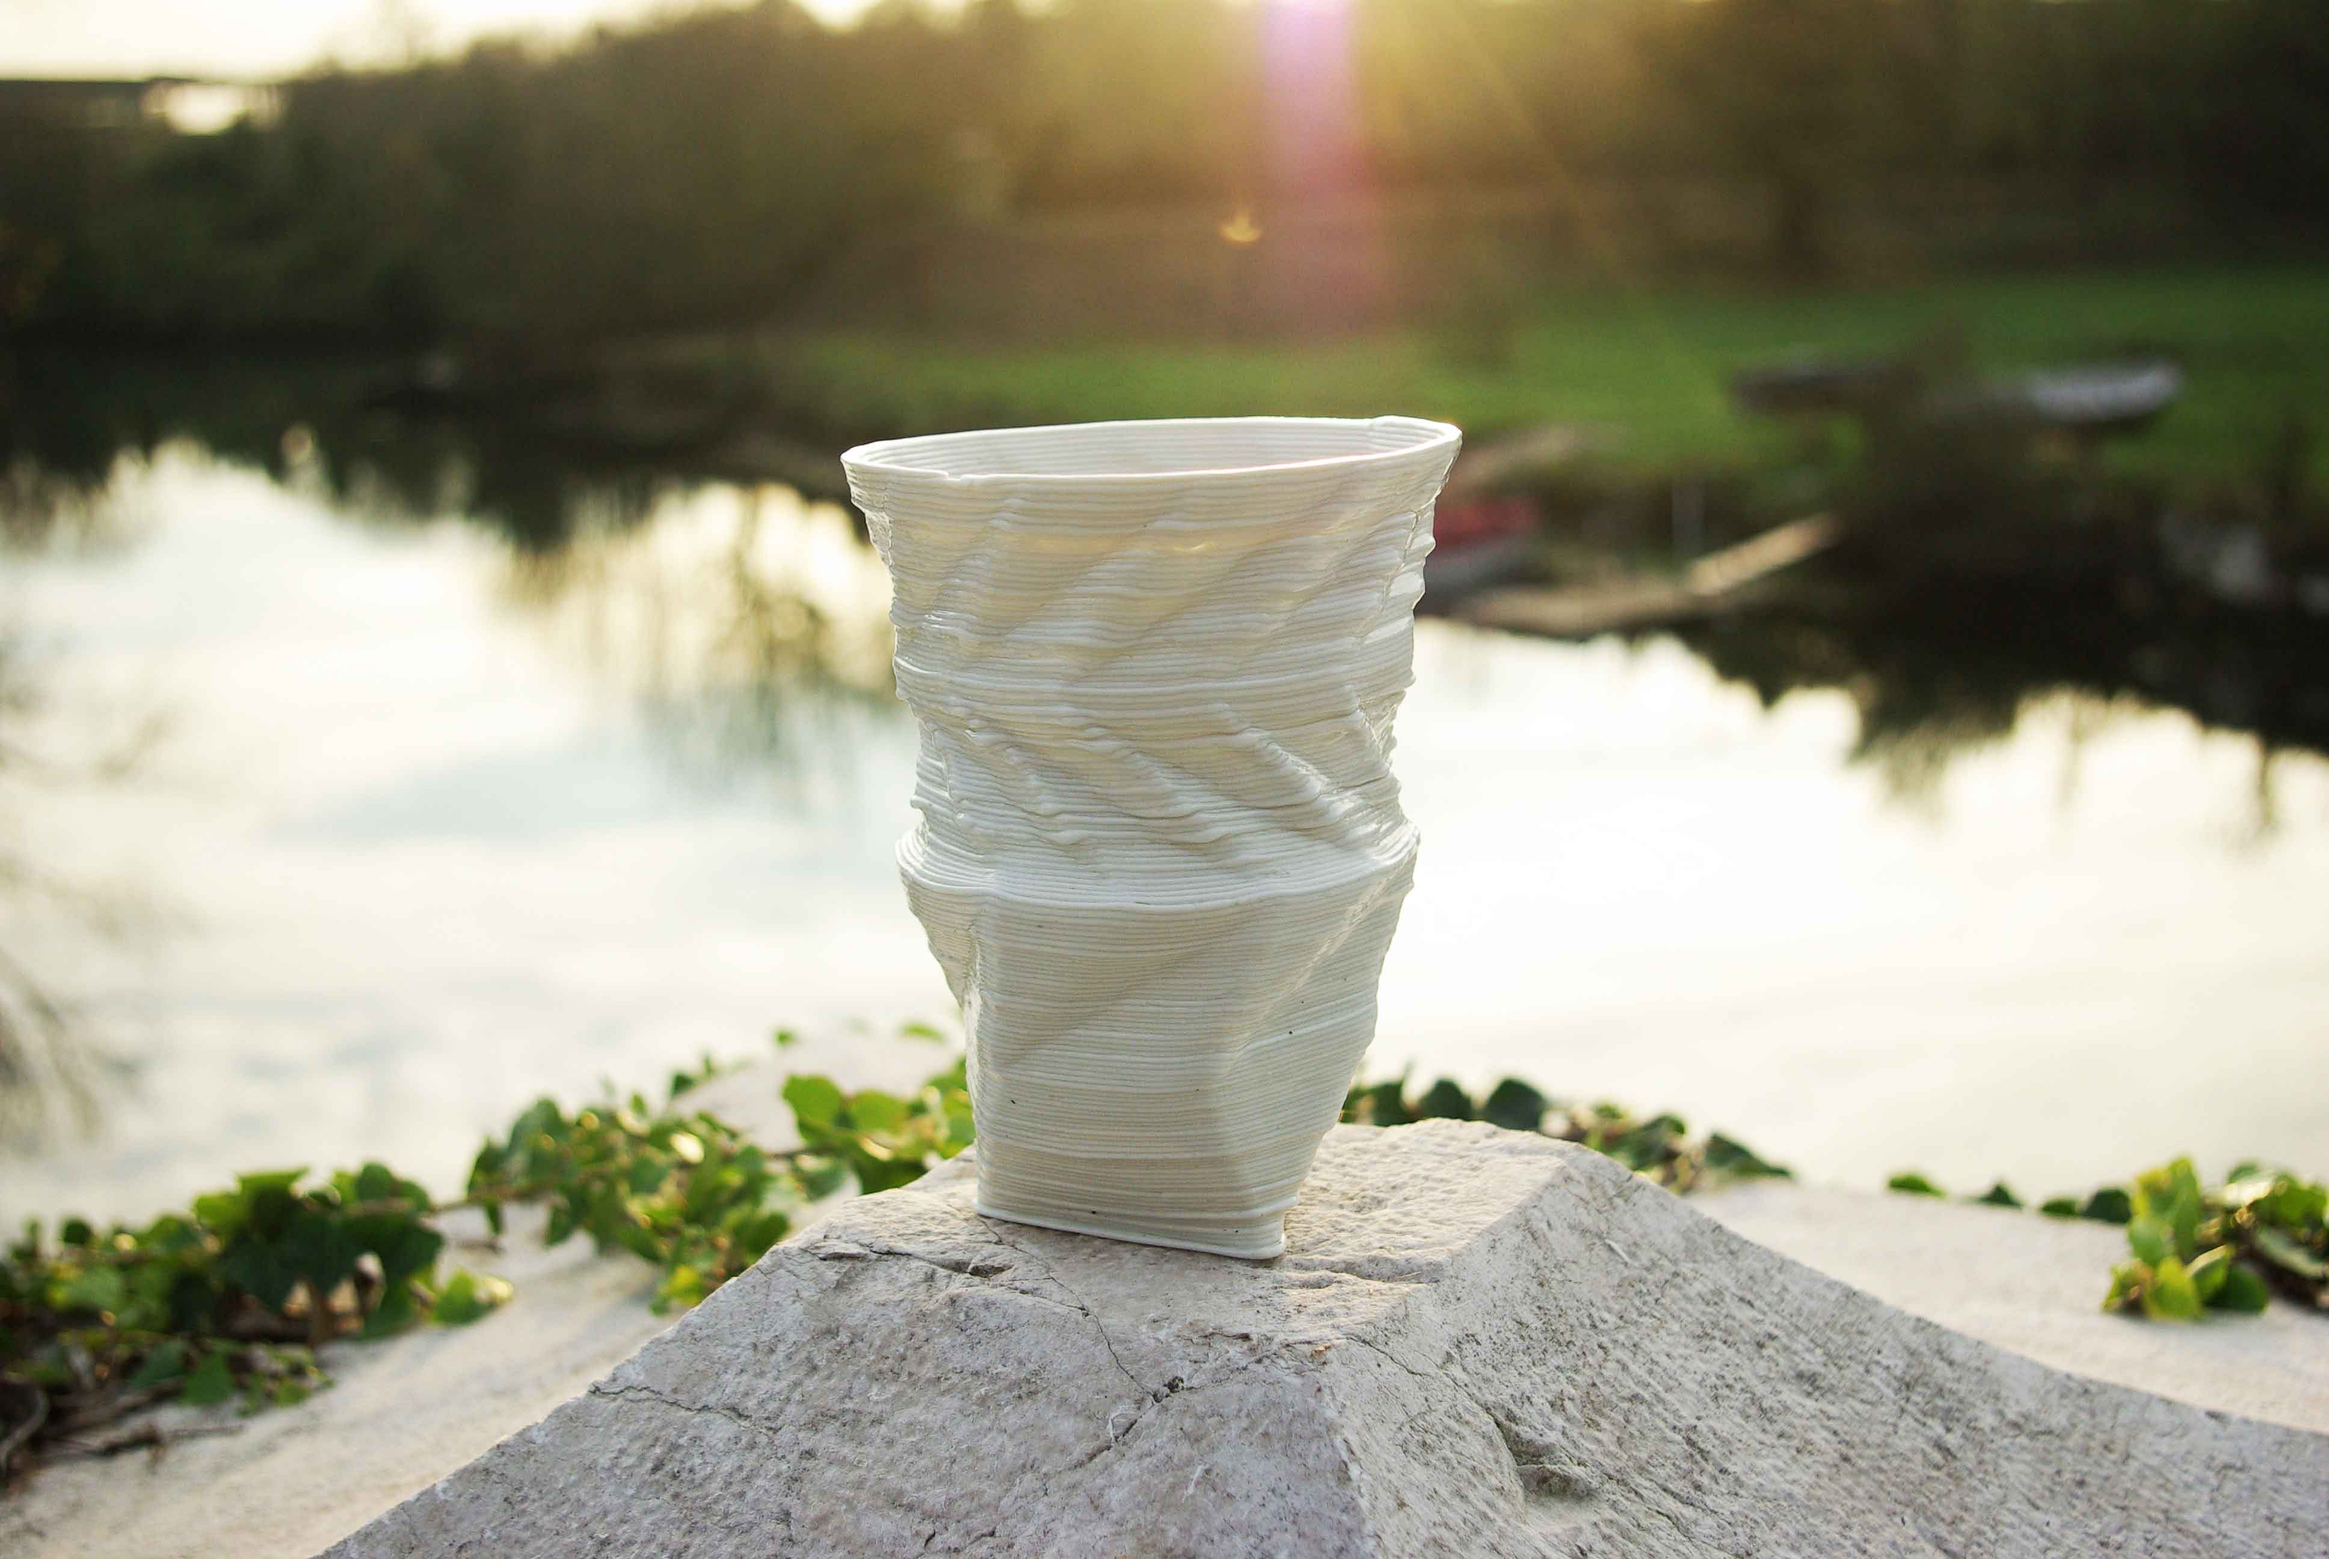
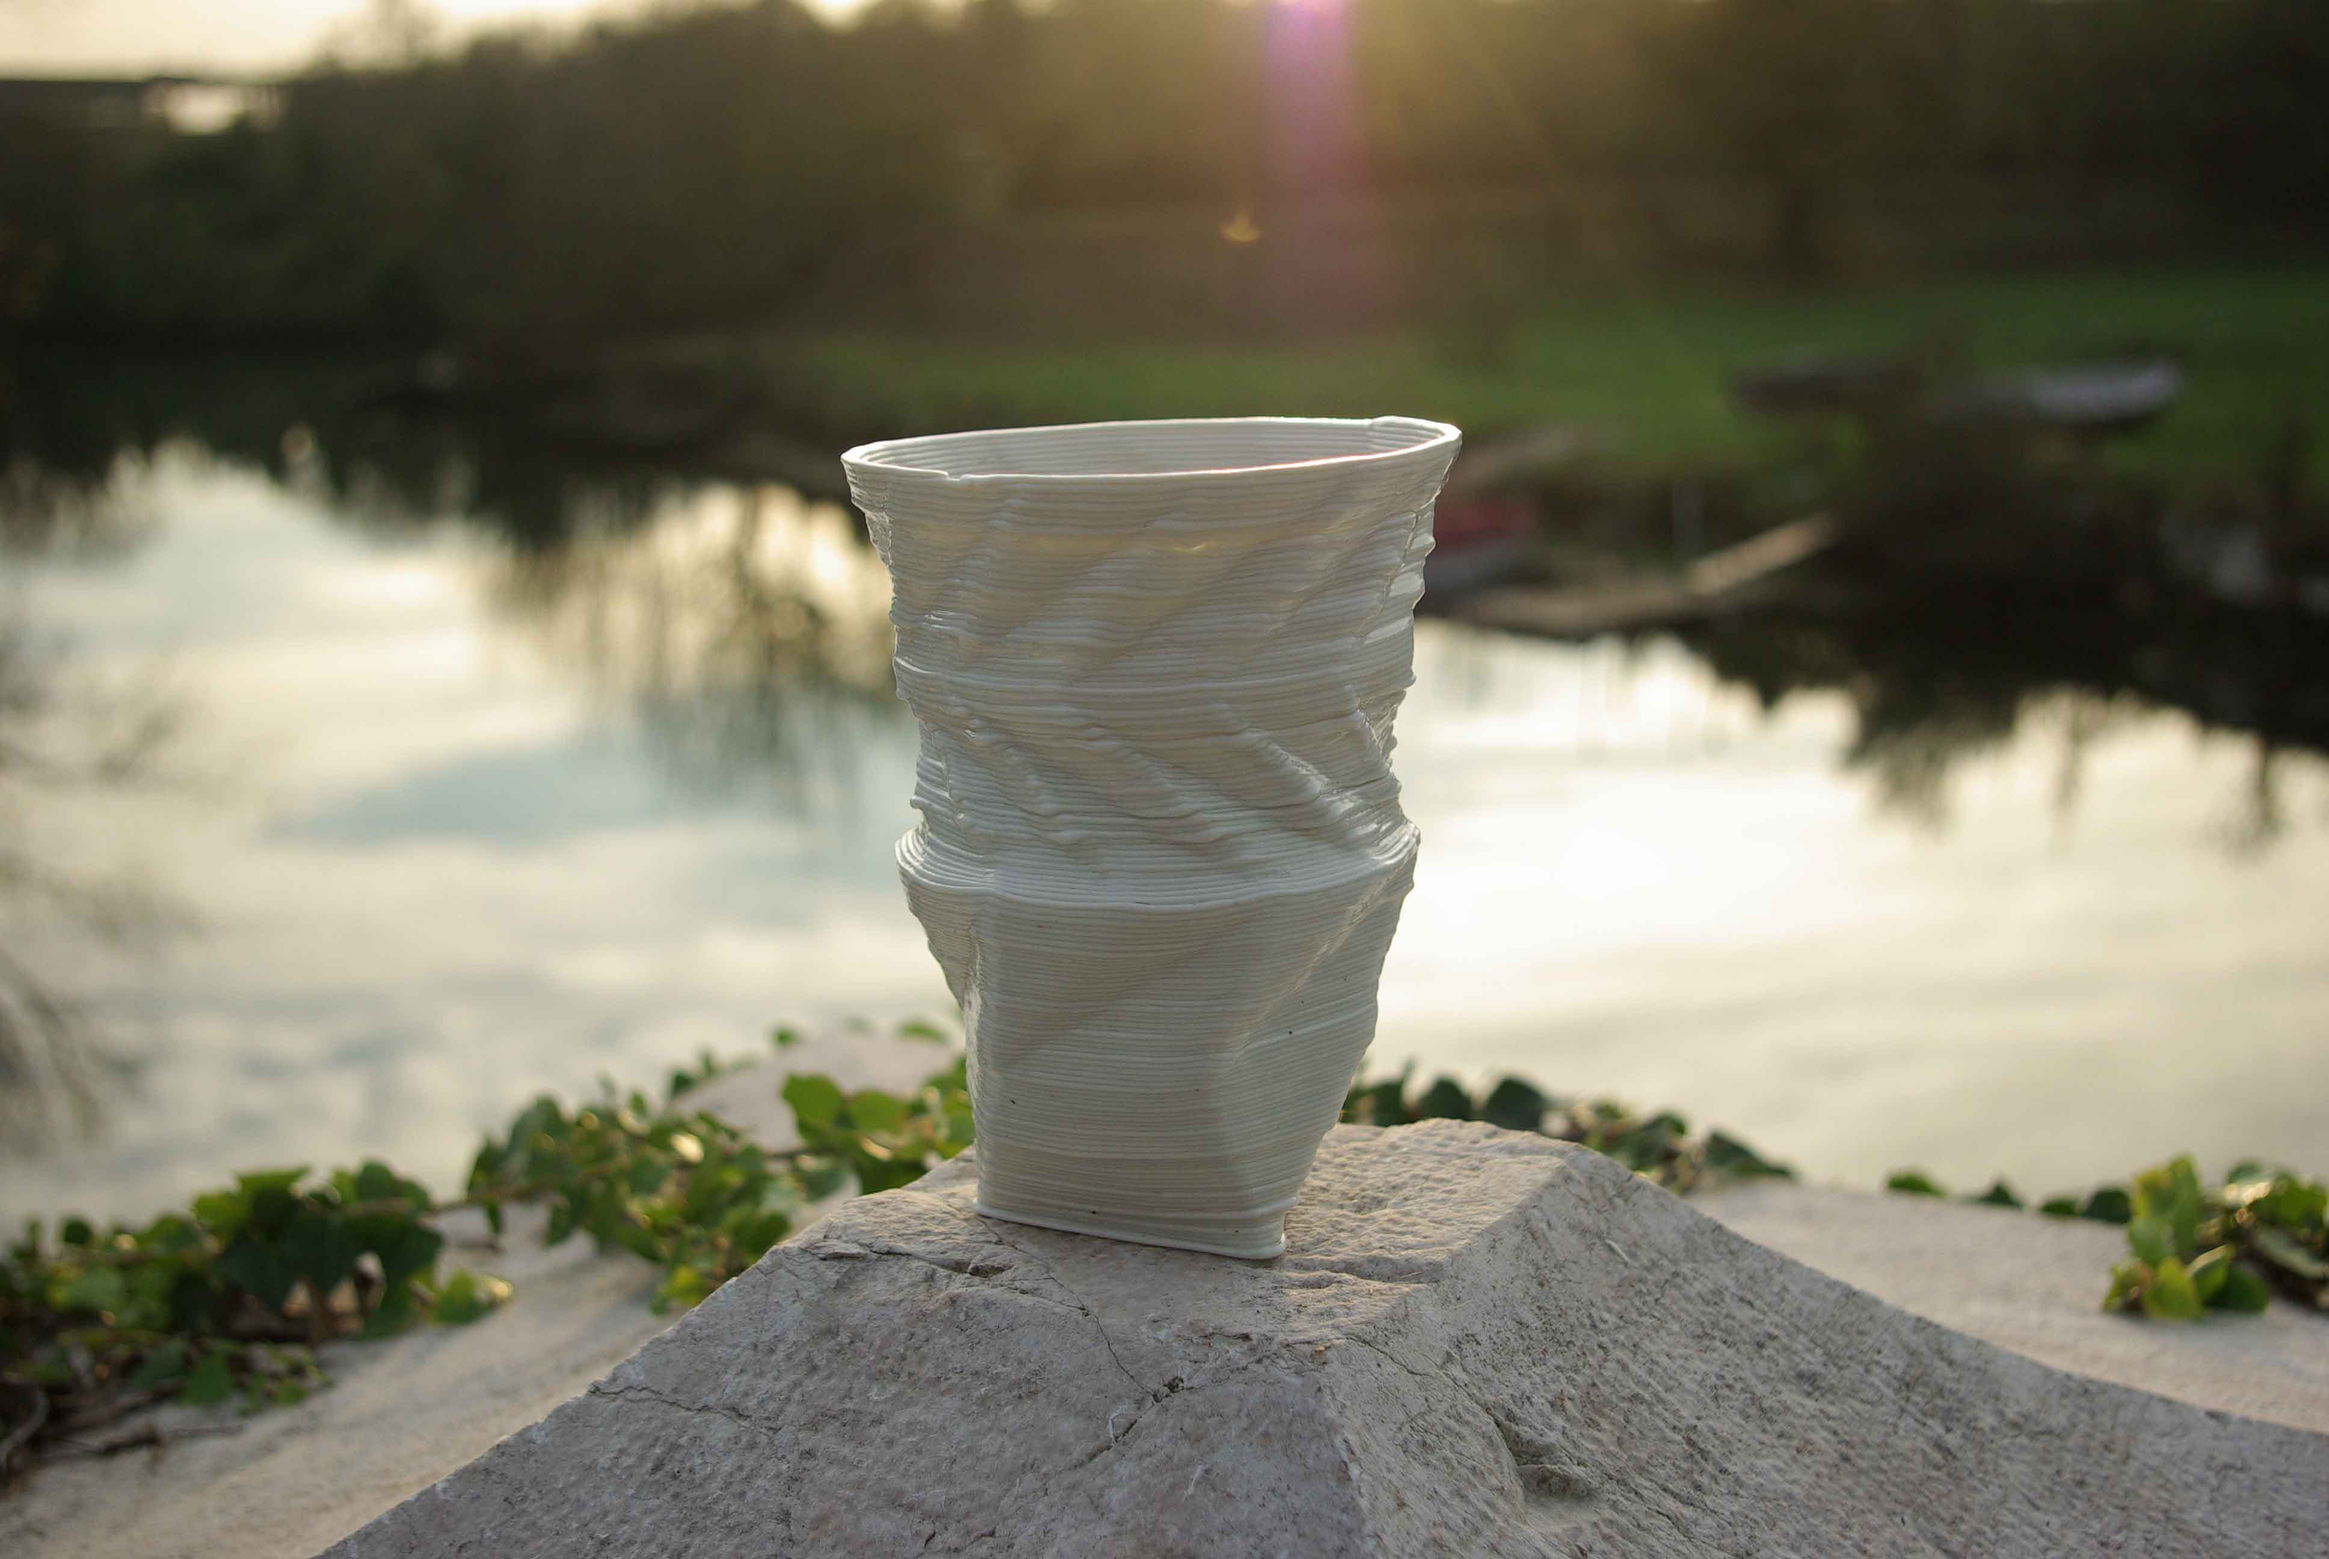
full bg index lower quality

diff --git a/_sass/_base.scss b/_sass/_base.scss
@@ -66,7 +66,7 @@ body {
 }
 
 body.with-full-bg {
-  background-image: url('../images/mtrtrz1.jpg');
+  background-image: url('../images/mtrtrz1_low.jpg');
   background-size: cover;
   background-color: white;
   background-repeat: no-repeat;
